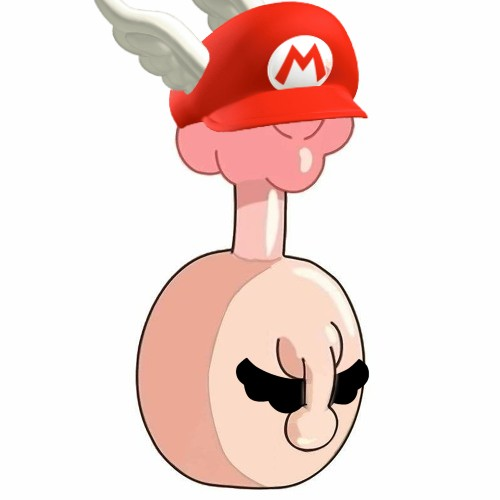
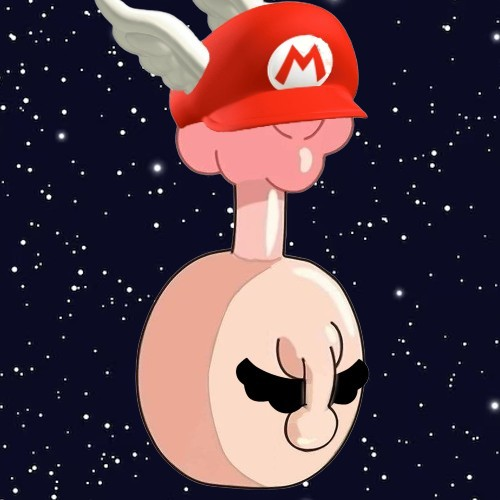
afinando el carro keo fino

diff --git a/carrito.html b/carrito.html
@@ -8,7 +8,6 @@
   <!-- Bootstrap CSS -->
   <!-- Latest compiled and minified CSS -->
 <link href="https://cdn.jsdelivr.net/npm/bootstrap@5.2.3/dist/css/bootstrap.min.css" rel="stylesheet">
-
 <!-- Latest compiled JavaScript -->
 <script src="https://cdn.jsdelivr.net/npm/bootstrap@5.2.3/dist/js/bootstrap.bundle.min.js"></script>
   <link rel="stylesheet" href="https://stackpath.bootstrapcdn.com/bootstrap/4.5.0/css/bootstrap.min.css"
@@ -18,6 +17,32 @@
   <link rel="stylesheet" href="css/login.css">
 </head>
 <body>
+  <!-- Nav tabs -->
+  <nav class="navbar navbar-expand-lg bg-dark navbar-dark">
+    <div class="container-fluid">
+        <a class="navbar-brand logo" href="index.html"><img src="imgs/plumbus_lg.png" width="40"></a>
+        <button class="navbar-toggler" type="button" data-bs-toggle="collapse" data-bs-target="#collapsibleNavbar">
+            <span class="navbar-toggler-icon"></span>
+        </button>
+        <div class="collapse navbar-collapse" id="collapsibleNavbar">
+            <ul class="navbar-nav">
+                <li class="nav-item">
+                    <a class="nav-link pumblus" href="pumblus.html">PumblusX</a>
+                </li>
+                <li class="nav-item">
+                    <a class="nav-link pumblus" href="contacto.html">Contactanos</a>
+                </li>
+                <li class="nav-item">
+                    <a class="nav-link pumblus" href="tienda.html">Tienda</a>
+                </li>
+                <li class="nav-item">
+                    <a class="nav-link pumblus auto" href="login.html">Login</a>
+                </li>
+            </ul>
+        </div>
+    </div>
+</nav>
+<!-- Se acabó el nav  -->
 
   <div class="container">
     <div class="row mt-5">
@@ -26,7 +51,7 @@
         <div class="row">
           <div class="col-md-4 mb-4">
             <div class="card">
-              <img src="imgs/plumbuszelda.png" class="card-img-top" alt="Producto 1">
+              <img src="imgs/plumbuszeldaarreglado.png" class="card-img-top" alt="Producto 1">
               <div class="card-body">
                 <h5 class="card-title">Plumbus Zelda</h5>
                 <p class="card-text">Colaboracion edicion especial con The Legends of Zelda</p>
@@ -35,7 +60,7 @@
           </div>
           <div class="col-md-4 mb-4">
             <div class="card">
-              <img src="imgs/artworks-000678360676-po4tb9-t500x500.jpg" class="card-img-top" alt="Producto 2">
+              <img src="imgs/plumbu-index-png.jpg" class="card-img-top" alt="Producto 2">
               <div class="card-body">
                 <h5 class="card-title">Plumbus Tradicional</h5>
                 <p class="card-text">Plumbus ideal para todo lo que necesitas.</p>
@@ -46,26 +71,26 @@
       </div>
       <!-- Carrito -->
       <div class="col-md-4 mb-4">
-        <div class="card">
+        <div class="card" style="background-image: url('imgs/rickandmortyportal.png'); background-size: 750px; background-position: 50%; background-repeat: no-repeat; background-color: black; ">  
           <div class="card-body">
-            <h5 class="card-title">Mi carrito</h5>
+            <h5 class="card-title" style="color: white;">Mi carrito</h5>
             <ul class="list-group">
                 <br>
                 <br>
-              <li class="list-group-item d-flex justify-content-between align-items-center">
+              <li class="list-group-item d-flex justify-content-between align-items-center" style="color: white; background-color: black; ">
                 2 productos añadidos!
                 <span class="badge badge-primary badge-pill">$19.99</span>
               </li>
               <br>
               <br>
-              <li class="list-group-item d-flex justify-content-between align-items-center">
+              <li class="list-group-item d-flex justify-content-between align-items-center" style="color: white; background-color: black; ">
                 Descuento
-                <input type="text" class="form-control" placeholder="Código">
+                <input type="text" class="form-control" placeholder="Código" style="color: white; background-color: black; " >
                 <button class="btn btn-primary">Aplicar</button>
               </li>
               <br>
               <br>
-              <li class="list-group-item d-flex justify-content-between align-items-center">
+              <li class="list-group-item d-flex justify-content-between align-items-center" style="color: white; background-color: black; ">
                 Total: $90.50
                 <span class="badge badge-primary badge-pill">$19.99</span>
               </li>
@@ -83,6 +108,19 @@
       </div>
     </div>
   </div>
+      <!-- footer  -->
+      <footer class="footer bg-dark p--1 mt-2 text-light display-9 ">
+        <p class=" text-center">Siguenos en
+            <a
+                href="https://es-la.facebook.com/people/Rosa-Maria/pfbid02VfXMfrSvHssCpALxni7eG5g1hRDPRWGqbYEW5Nmt7hpTVHkk9rBRzpgz6CPvaF5Ll/"><i
+                    class="bi bi-facebook"></i></a>
+            <a href="https://open.spotify.com/artist/2M0kKcVuBsLFH5d12pW215"><i class="bi bi-spotify"></i> </a>
+            <a href="https://twitter.com/Brazzers"><i class="bi bi-twitter"></i></a>
+            <a href="https://www.instagram.com/la_abuela_bellaca_36"><i class="bi bi-instagram"></i></a>
+        </p>
+        <p class="justify-content-center text-center">Powered by &copy;No fue el profe 2023</p>
+      </footer>
+
 
   <!-- jQuery, Popper.js, Bootstrap JS -->
   <script src="https://code.jquery.com/jquery-3.5.1.slim.min.js"

diff --git a/css/login.css b/css/login.css
@@ -23,3 +23,8 @@ background-color: green;
 .btn-primary{
     background-color: green;
 }
+/* .carrito-card {
+    background-image: url('/plumbus/imgs/rickandmortyportal.png');
+    background-size: cover;
+    background-position: center;
+} */
